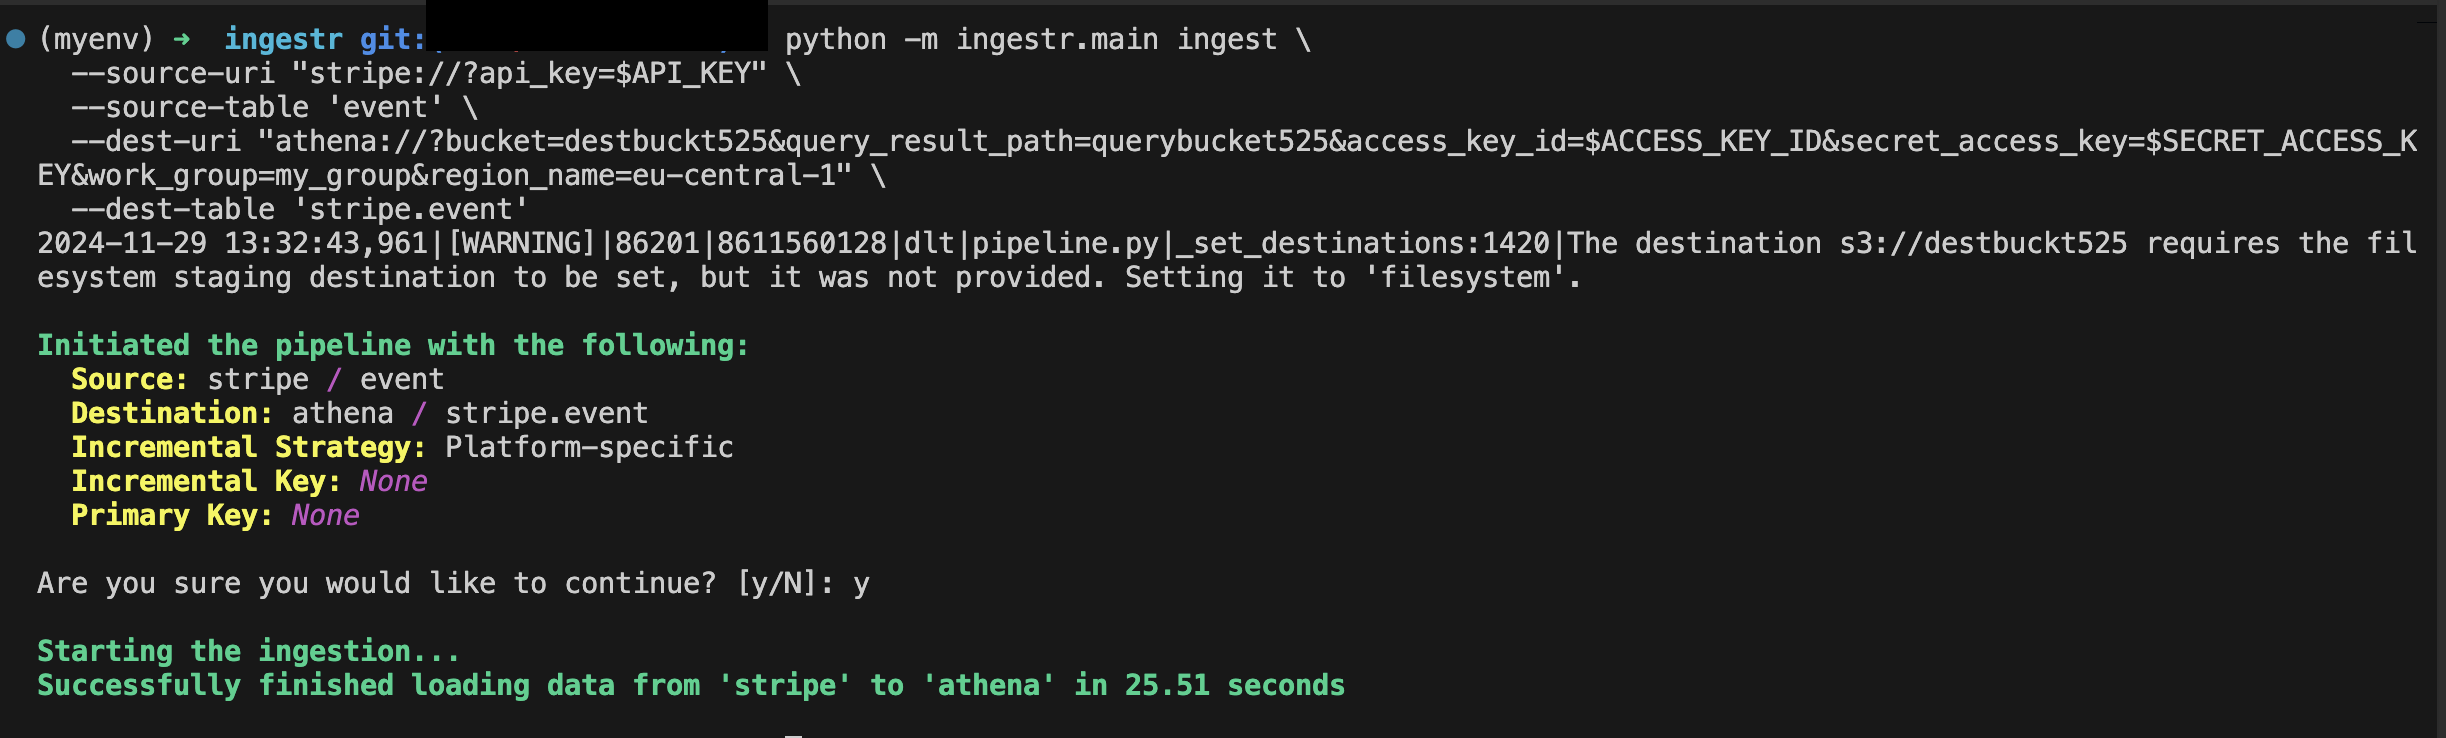
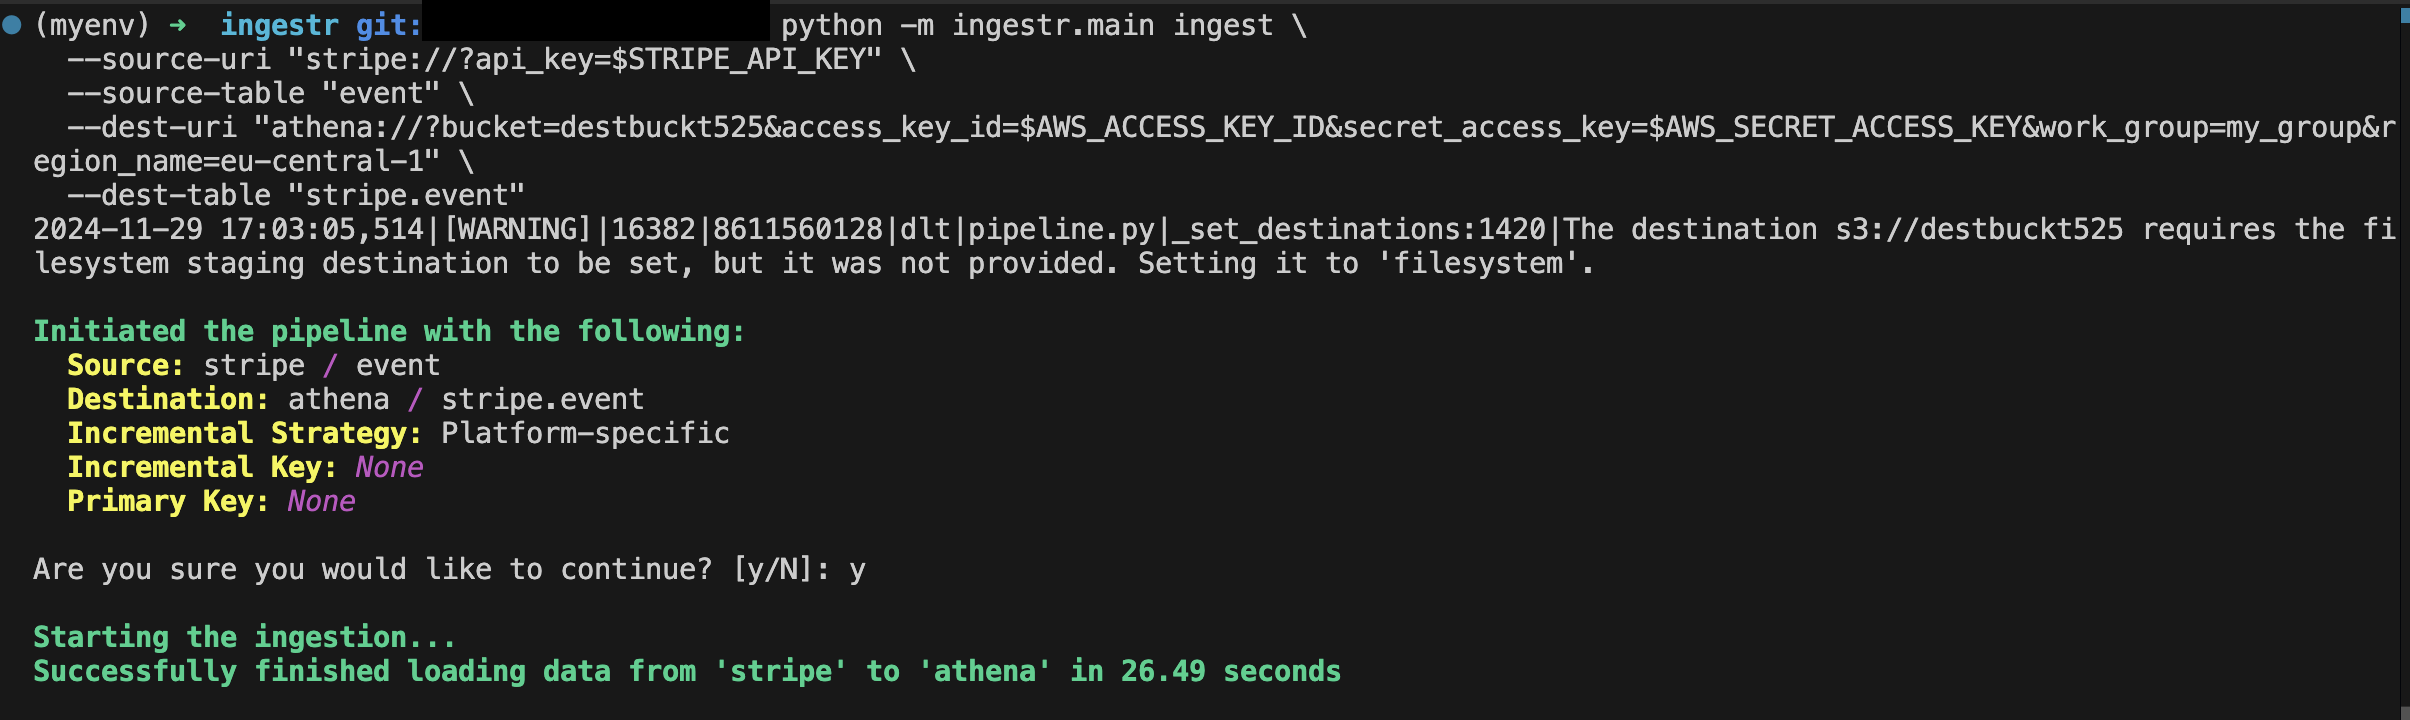
small changes in docs

diff --git a/ingestr/src/destinations.py b/ingestr/src/destinations.py
@@ -210,7 +210,7 @@ class AthenaDestination:
         if not bucket.startswith("s3://"):
             bucket = f"s3://{bucket}"
 
-        query_result_path = source_params.get("query_result_path", [None])[0]
+        query_result_path = source_params.get("query_results_path", [None])[0]
         if query_result_path:
             if not query_result_path.startswith("s3://"):
                 query_result_path = f"s3://{query_result_path}"
@@ -252,18 +252,7 @@ class AthenaDestination:
         )
 
     def dlt_run_params(self, uri: str, table: str, **kwargs) -> dict:
-        table_fields = table.split(".")
-        if len(table_fields) != 2 and len(table_fields) != 3:
-            raise ValueError(
-                "Table name must be in the format <dataset>.<table> or <project>.<dataset>.<table>"
-            )
-
-        res = {
-            "dataset_name": table_fields[-2],
-            "table_name": table_fields[-1],
-        }
-
-        return res
+        return {}
 
     def post_load(self):
         pass

diff --git a/docs/supported-sources/athena.md b/docs/supported-sources/athena.md
@@ -1,7 +1,7 @@
 # Athena
 [Athena](https://aws.amazon.com/athena/) is an interactive query service that allows users to analyze data directly in Amazon S3 using standard SQL.
 
-The Athena destination stores data as Parquet files in S3 buckets and creates external tables in AWS Athena.
+The Athena destination stores data as Parquet files in S3 buckets and creates external tables in AWS Glue Catalog.
 
 ingestr supports Athena as a destination.
 
@@ -10,27 +10,27 @@ The URI format for Athena is as follows:
 
 ```plaintext
 athena://?bucket=<your-destination-bucket> \
-    query_result_path=<your-query-results-location> \
+    query_results_path=<your-query-results-location> \
     access_key_id=<your-aws-access-key-id> \
     secret_access_key=<your-aws-secret-access-key> \
     work_group=<your-athena-work-group> \
     region_name=<your-aws-region>
 ```
 URI parameters:
-- `bucket`: The name of the bucket where the data will be stored, containing the Parquet files that Athena will work with. For example,`your_bucket_name` or s3://your_bucket_name.
-- `query_result_path` (optional): The query location path where the results of Athena queries will be saved. For example, `dest_path` or s3://dest_path. If not provided, it will default to the bucket specified in the `bucket parameter`.
-- `access_key_id` and `secret_access_key`: These are AWS credentials that will be used to authenticate with AWS services like S3 and Athena.
-- `work_group`: The name of the Athena workgroup. For example, my_group
-- `region_name`: The AWS region of the Athena service and S3 buckets. For example, eu-central-1.
+- `bucket` (required): The name of the bucket where the data will be stored, containing the Parquet files that Athena will work with. For example,`your_bucket_name` or s3://your_bucket_name.
+- `query_results_path` (optional): The query location path where the results of Athena queries will be saved. For example, `dest_path` or `s3://dest_path`. If not provided, it will default to the bucket specified in the `bucket` parameter.
+- `access_key_id` and `secret_access_key` (required): These are AWS credentials that will be used to authenticate with AWS services like S3 and Athena.
+- `work_group` (required): The name of the Athena workgroup, e.g. `my_group`
+- `region_name` (required): The AWS region of the Athena service and S3 buckets, e.g `eu-central-1`
 
 ## Setting up an Athena Integration
-Athena requires a `bucket`, `query_result_path`, `access_key_id`, `secret_access_key`, `work_group`, and `region_name` to access the S3 bucket. Please follow the guide on dltHub to obtain [credentials](https://dlthub.com/docs/dlt-ecosystem/destinations/athena#2-setup-bucket-storage-and-athena-credentials). Once you've completed the guide, you should have all the above-mentioned credentials.
+Athena requires a `bucket`, `access_key_id`, `secret_access_key`, `work_group`, and `region_name` to access the S3 bucket. Please follow the guide on dltHub to obtain [credentials](https://dlthub.com/docs/dlt-ecosystem/destinations/athena#2-setup-bucket-storage-and-athena-credentials). Once you've completed the guide, you should have all the above-mentioned credentials.
 
 ```
 ingestr ingest \
   --source-uri "stripe://?api_key=key123" \
   --source-table 'event' \
-  --dest-uri "athena://?bucket=bucket_123&query_result_path=path_123&access_key_id=access_123&secret_access_key=secret_123&work_group=my_group&region_name=eu-central-1" \
+  --dest-uri "athena://?bucket=bucket_123&query_results_path=path_123&access_key_id=access_123&secret_access_key=secret_123&work_group=my_group&region_name=eu-central-1" \
   --dest-table 'stripe.event'
 ```
 This is a sample command that will copy the data from the Stripe source into Athena.